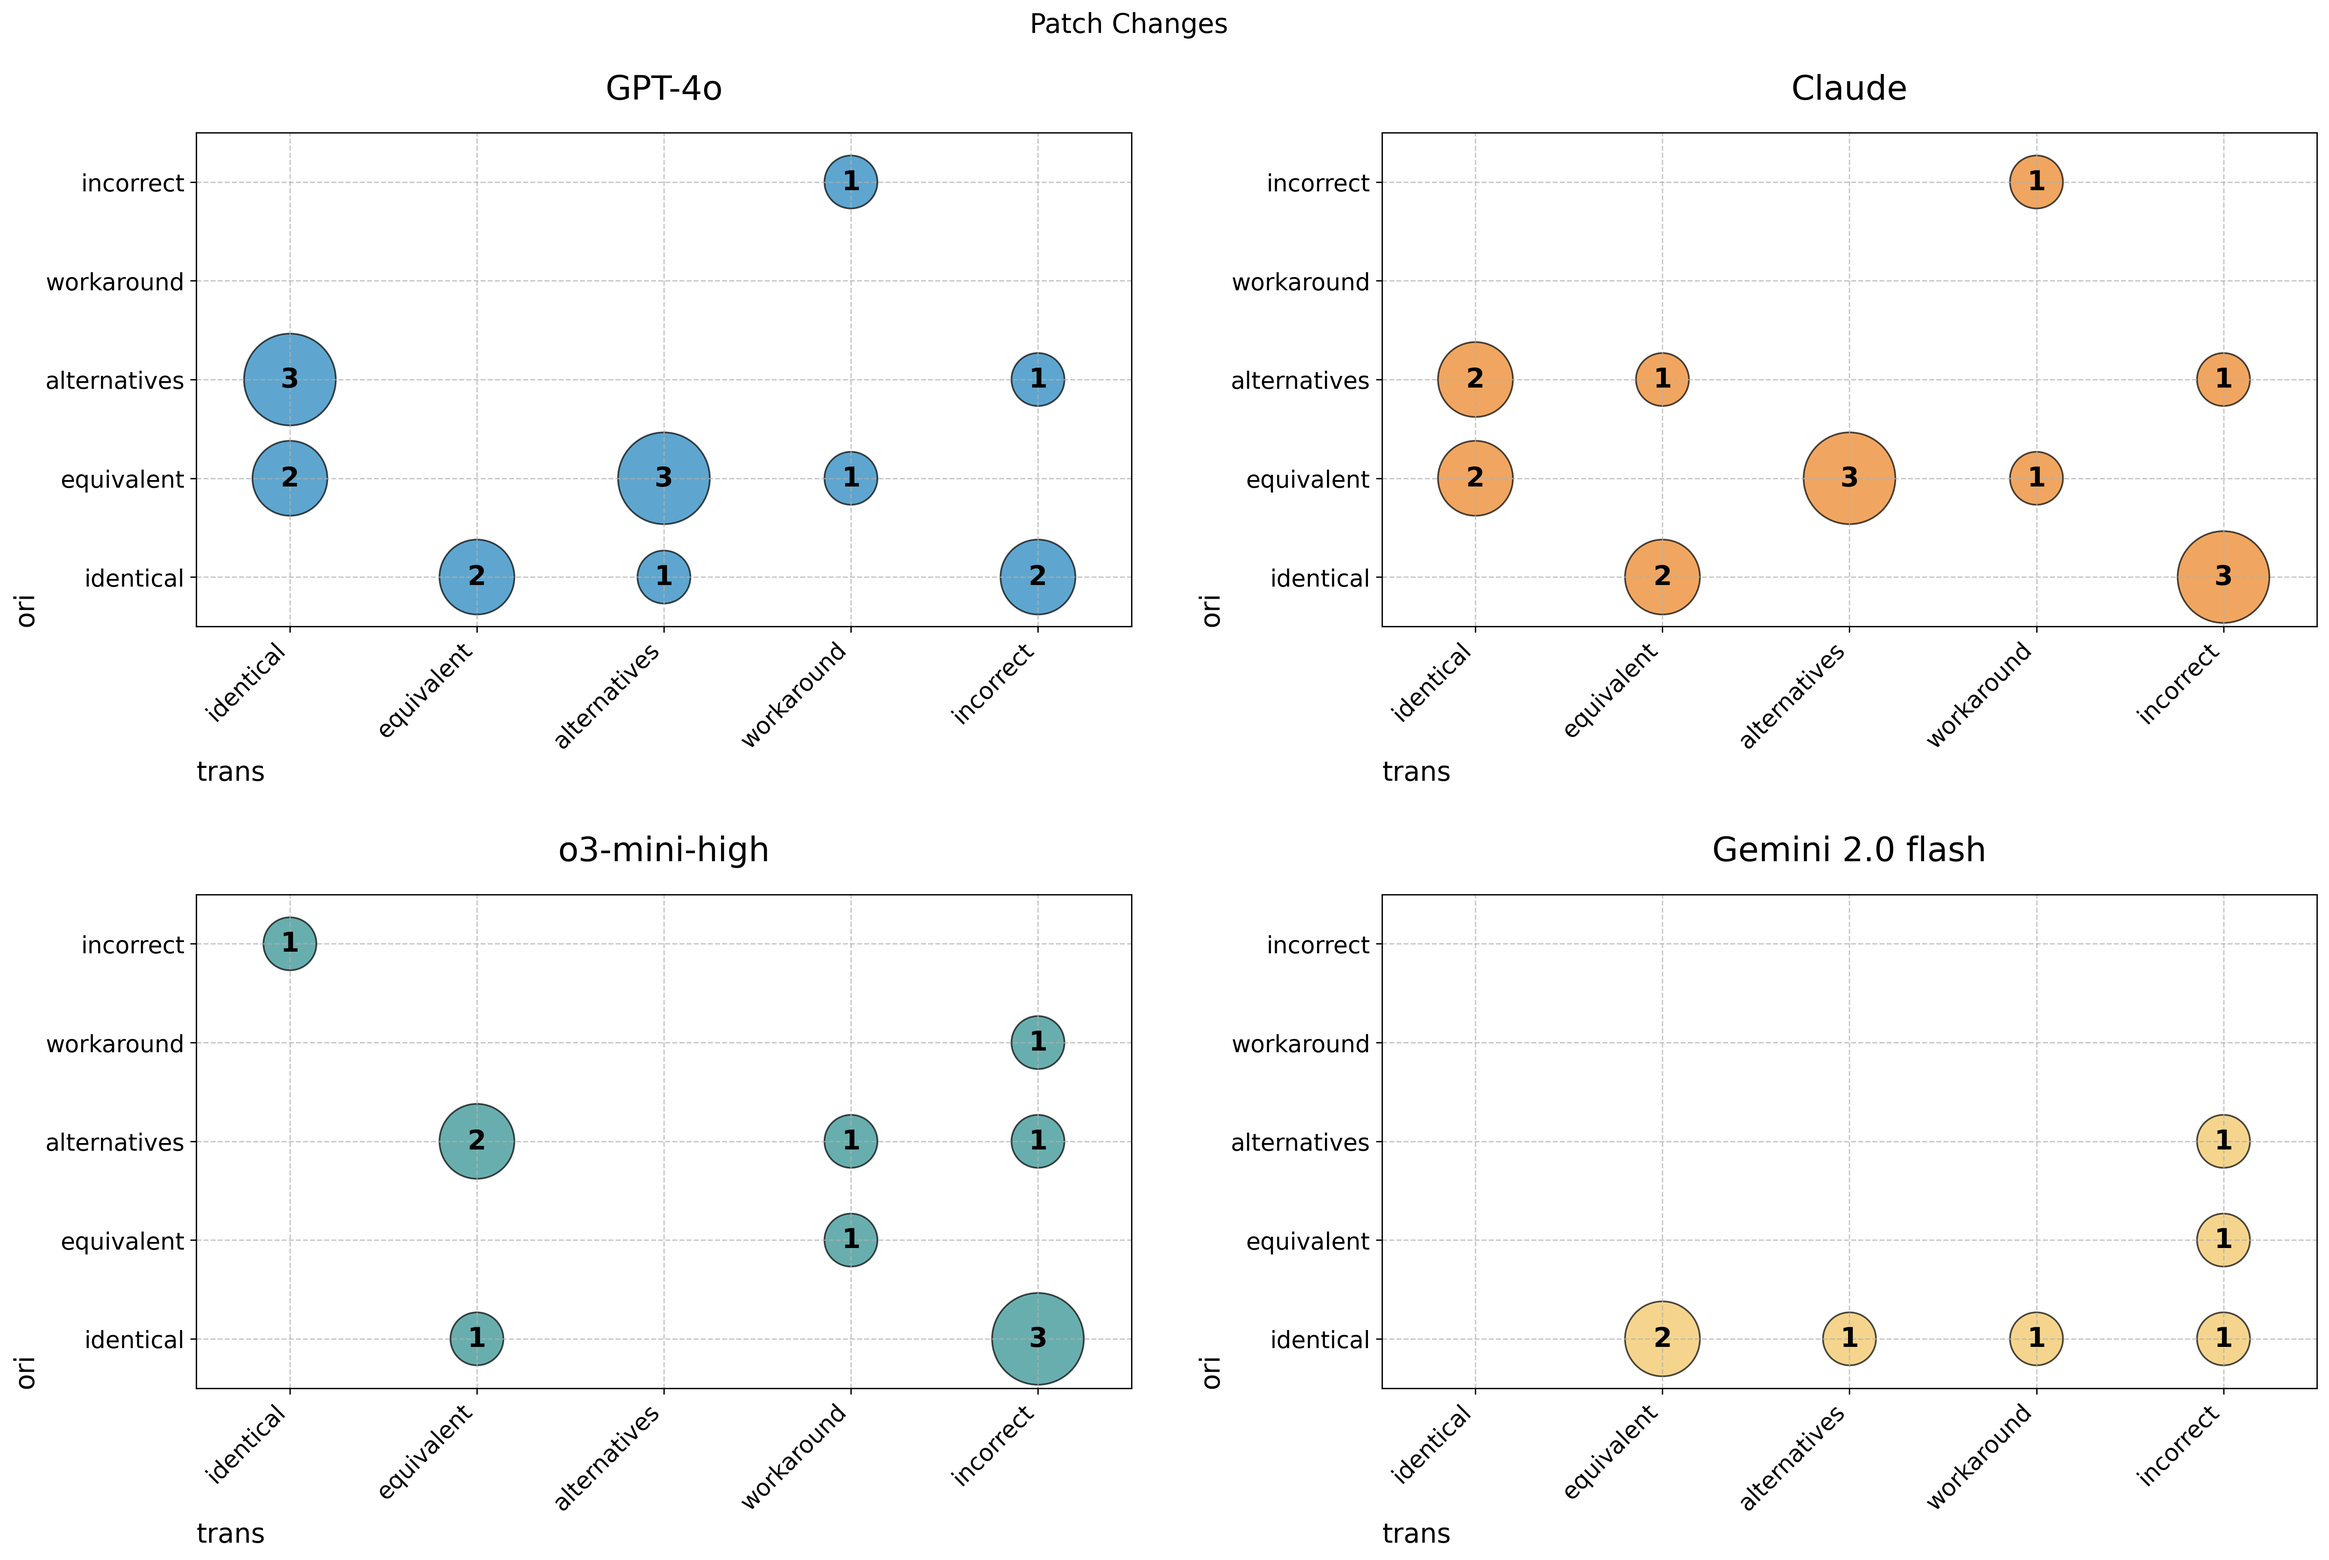
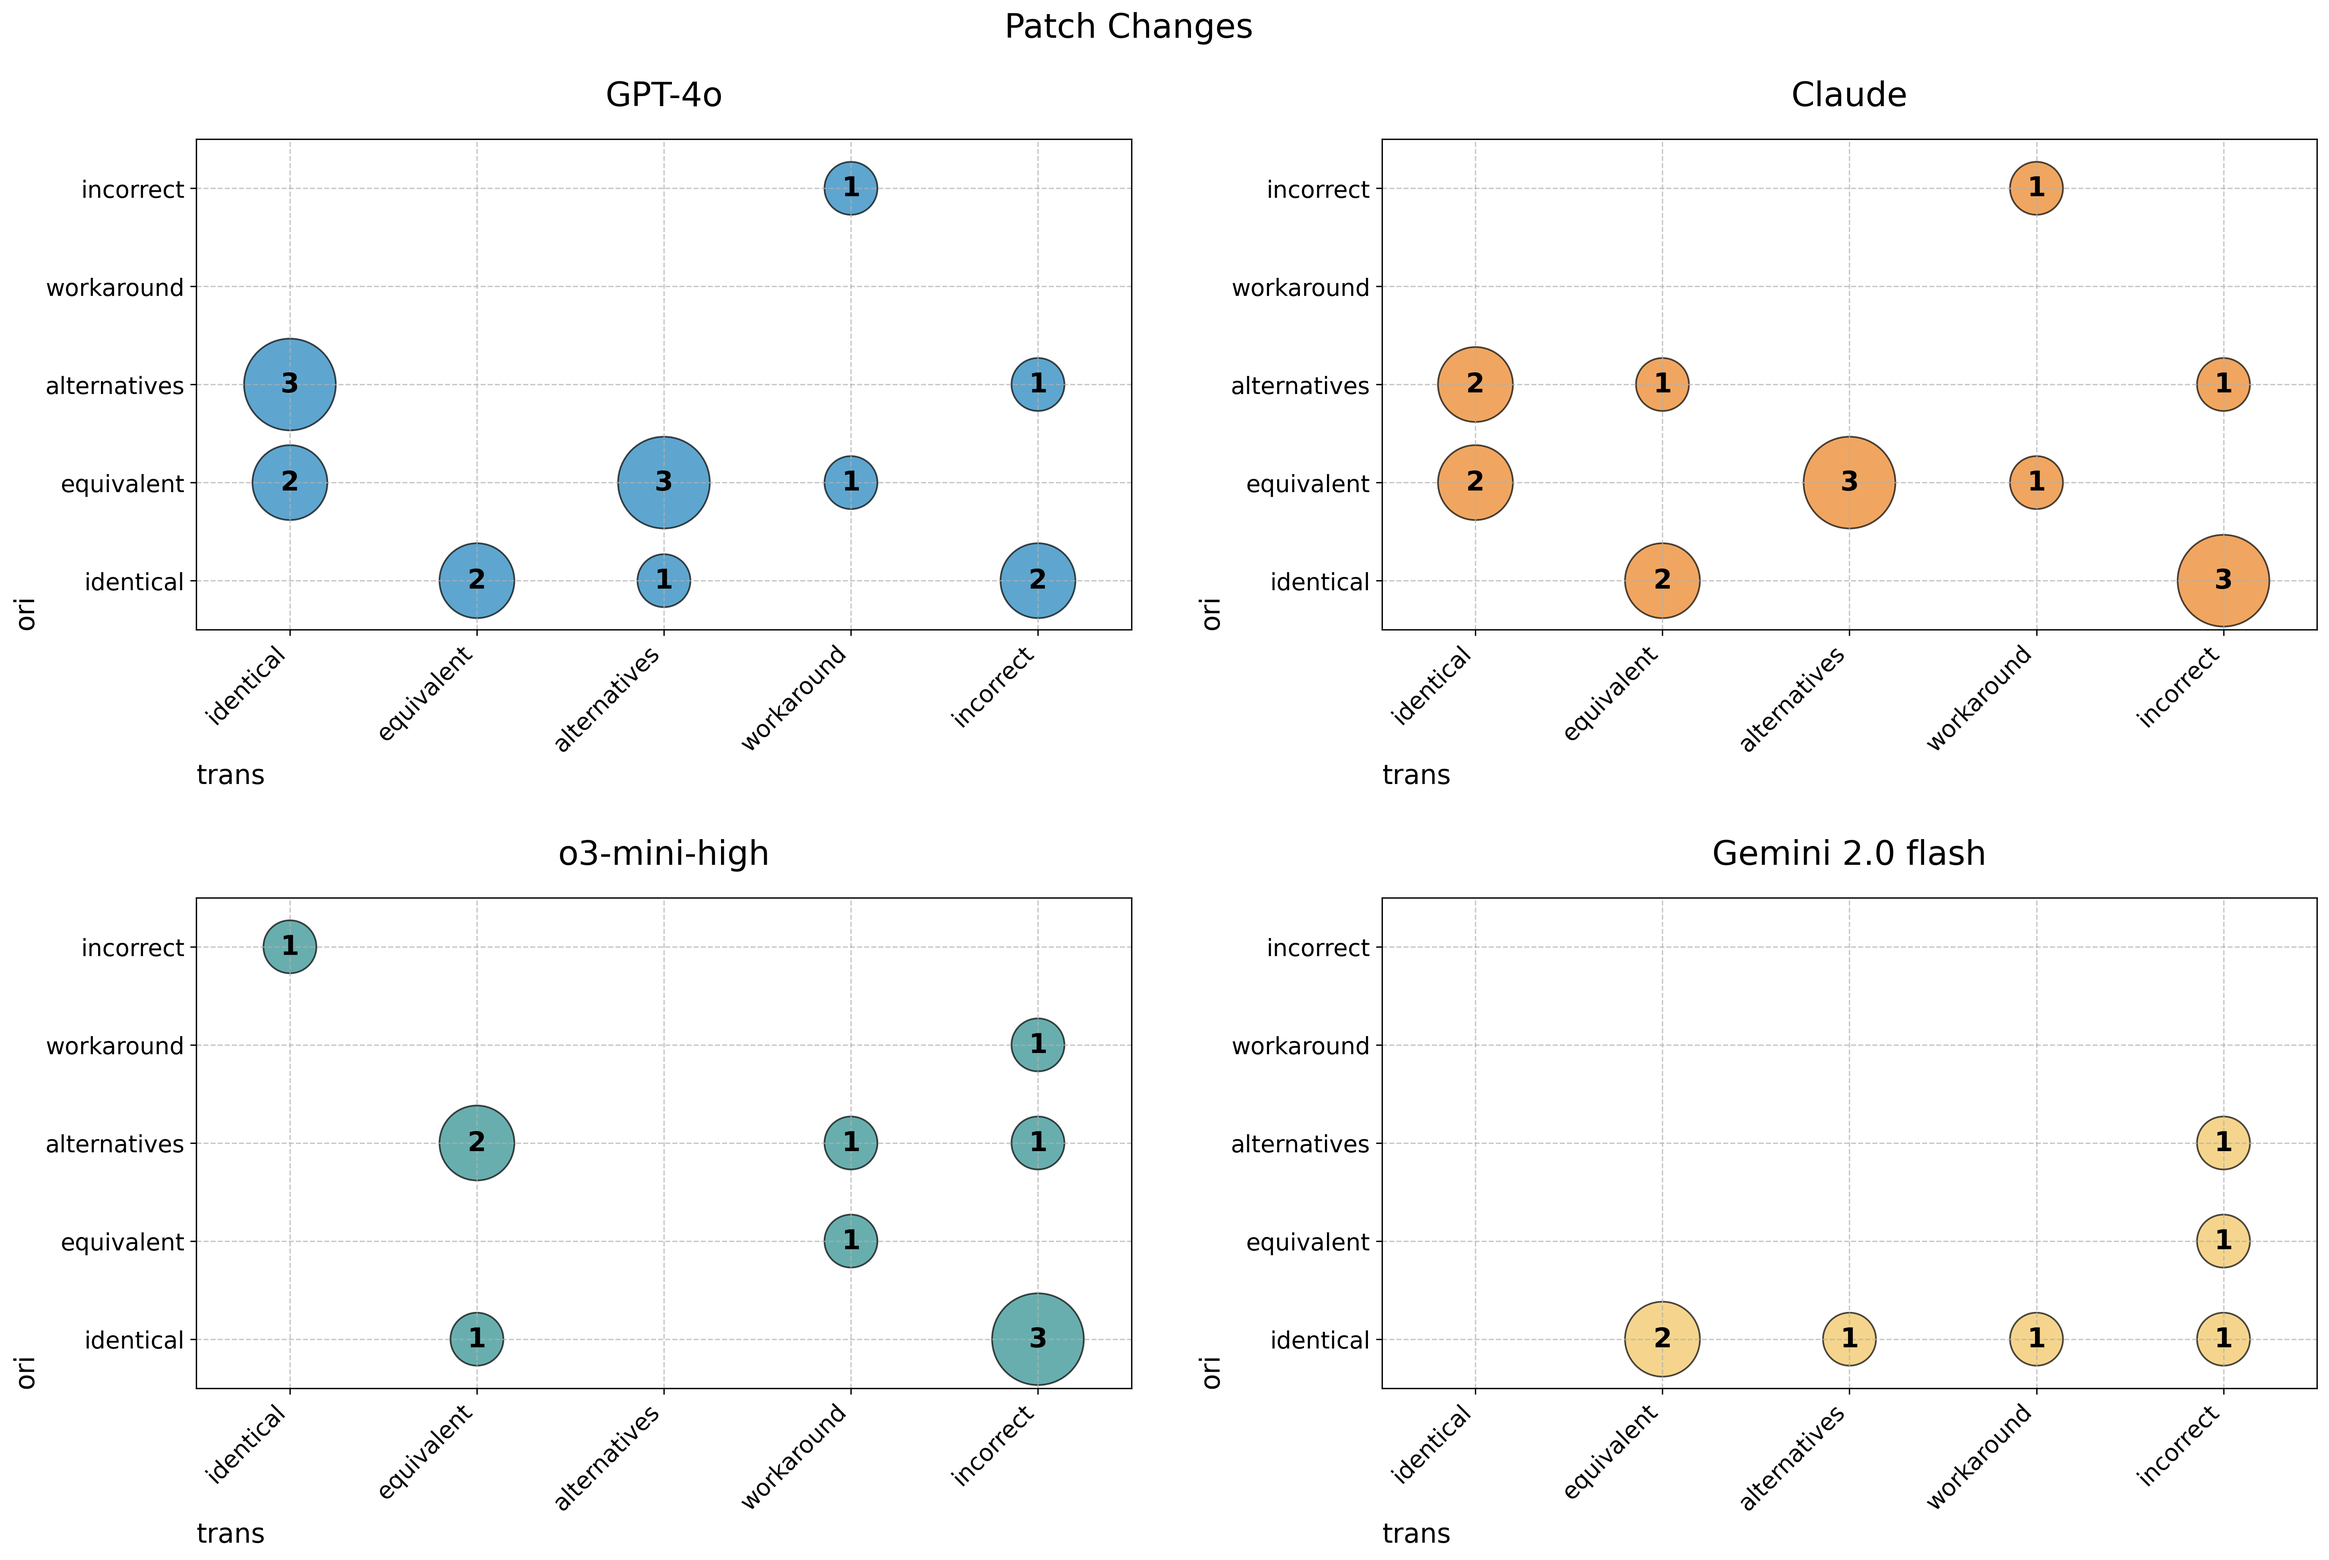
color-red

diff --git a/charts/bubble_color.py b/charts/bubble_color.py
@@ -46,12 +46,31 @@ model_colors = {
 
 # 2x2 subplot 생성
 fig, axes = plt.subplots(2, 2, figsize=(20, 14))
-fig.suptitle("Patch Changes", fontsize=16, y=0.95)
+fig.suptitle("Patch Changes", fontsize=20, y=0.95)
+
+# 모델별 기본 색상 정의
+model_base_colors = {
+    "GPT-4o": ('#1a80bb', '#e74c3c'),         # (기본색, 붉은색)
+    "Claude": ('#ea801c', '#ff6b6b'),         # (기본색, 붉은색)
+    "o3-mini-high": ('#298c8c', '#ff7675'),   # (기본색, 붉은색)
+    "Gemini 2.0 flash": ('#f2c45f', '#fab1a0') # (기본색, 붉은색)
+}
+
+def get_bubble_color(title, i, j):
+    """색상 결정 함수"""
+    # Correct/Incorrect 카테고리 구분
+    correct_indices = [0, 1, 2]  # identical, equivalent, alternatives
+    incorrect_indices = [3, 4]   # workaround, incorrect
+    
+    if i in correct_indices and j in incorrect_indices:
+        return model_base_colors[title][1]  # 붉은색 계열
+    return model_base_colors[title][0]      # 기본 색상
 
 # 각 subplot에 데이터셋 그리기
 for ax, (title, data) in zip(axes.flat, datasets.items()):
     x, y, sizes = [], [], []
-    values = []  # 실제 값을 저장할 리스트 추가
+    values = []
+    colors = []  # 버블별 색상을 저장할 리스트
     
     # 모든 좌표에 대해 처리 (0 포함)
     for i in range(len(y_labels)):
@@ -61,13 +80,14 @@ for ax, (title, data) in zip(axes.flat, datasets.items()):
             size = data[i][j] * 1000 if data[i][j] > 0 else 0
             sizes.append(size)
             values.append(data[i][j])
+            colors.append(get_bubble_color(title, i, j))  # 색상 결정
 
-    # 산점도 그리기 - 모델별 색상 적용
-    scatter = ax.scatter(x, y, s=sizes, alpha=0.7,  # alpha 값 약간 증가
-                        color=model_colors[title], 
+    # 산점도 그리기 - colors 매개변수 수정
+    scatter = ax.scatter(x, y, s=sizes, alpha=0.7,
+                        c=colors,  # 색상 리스트 사용
                         edgecolor='black', 
                         linewidth=1)
-    
+
     # 값이 0보다 큰 경우에만 값 표시
     for i, (x_pos, y_pos, value) in enumerate(zip(x, y, values)):
         if value > 0:

diff --git a/charts/bubble.py b/charts/bubble.py
@@ -36,14 +36,31 @@ datasets = {
     ]
 }
 
+def get_bubble_color(i, j):
+    """
+    i: ori category index (y-axis)
+    j: trans category index (x-axis)
+    returns: color for the bubble
+    """
+    # Correct categories (identical, equivalent, alternatives)
+    correct_indices = [0, 1, 2]
+    # Incorrect categories (workaround, incorrect)
+    incorrect_indices = [3, 4]
+    
+    if i in correct_indices and j in incorrect_indices:
+        return '#e74c3c'  # 붉은색 (correct -> incorrect)
+    else:
+        return '#1a80bb'  # 기존 파란색
+
 # 2x2 subplot 생성
 fig, axes = plt.subplots(2, 2, figsize=(20, 14))  # 세로 길이 12 -> 14로 증가
-fig.suptitle("Patch Changes", fontsize=16, y=0.95)
+fig.suptitle("Patch Changes", fontsize=20, y=0.95)
 
 # 각 subplot에 데이터셋 그리기
 for ax, (title, data) in zip(axes.flat, datasets.items()):
     x, y, sizes = [], [], []
-    values = []  # 실제 값을 저장할 리스트 추가
+    values = []
+    colors = []  # 버블별 색상을 저장할 리스트
     
     # 모든 좌표에 대해 처리 (0 포함)
     for i in range(len(y_labels)):
@@ -53,10 +70,11 @@ for ax, (title, data) in zip(axes.flat, datasets.items()):
             size = data[i][j] * 1000 if data[i][j] > 0 else 0
             sizes.append(size)
             values.append(data[i][j])
+            colors.append(get_bubble_color(i, j))  # 색상 결정
 
-    # 산점도 그리기
+    # 산점도 그리기 - colors 매개변수 추가
     scatter = ax.scatter(x, y, s=sizes, alpha=0.6, 
-                        color='#1a80bb', edgecolor='black', linewidth=1)
+                        c=colors, edgecolor='black', linewidth=1)
     
     # 값이 0보다 큰 경우에만 값 표시
     for i, (x_pos, y_pos, value) in enumerate(zip(x, y, values)):
